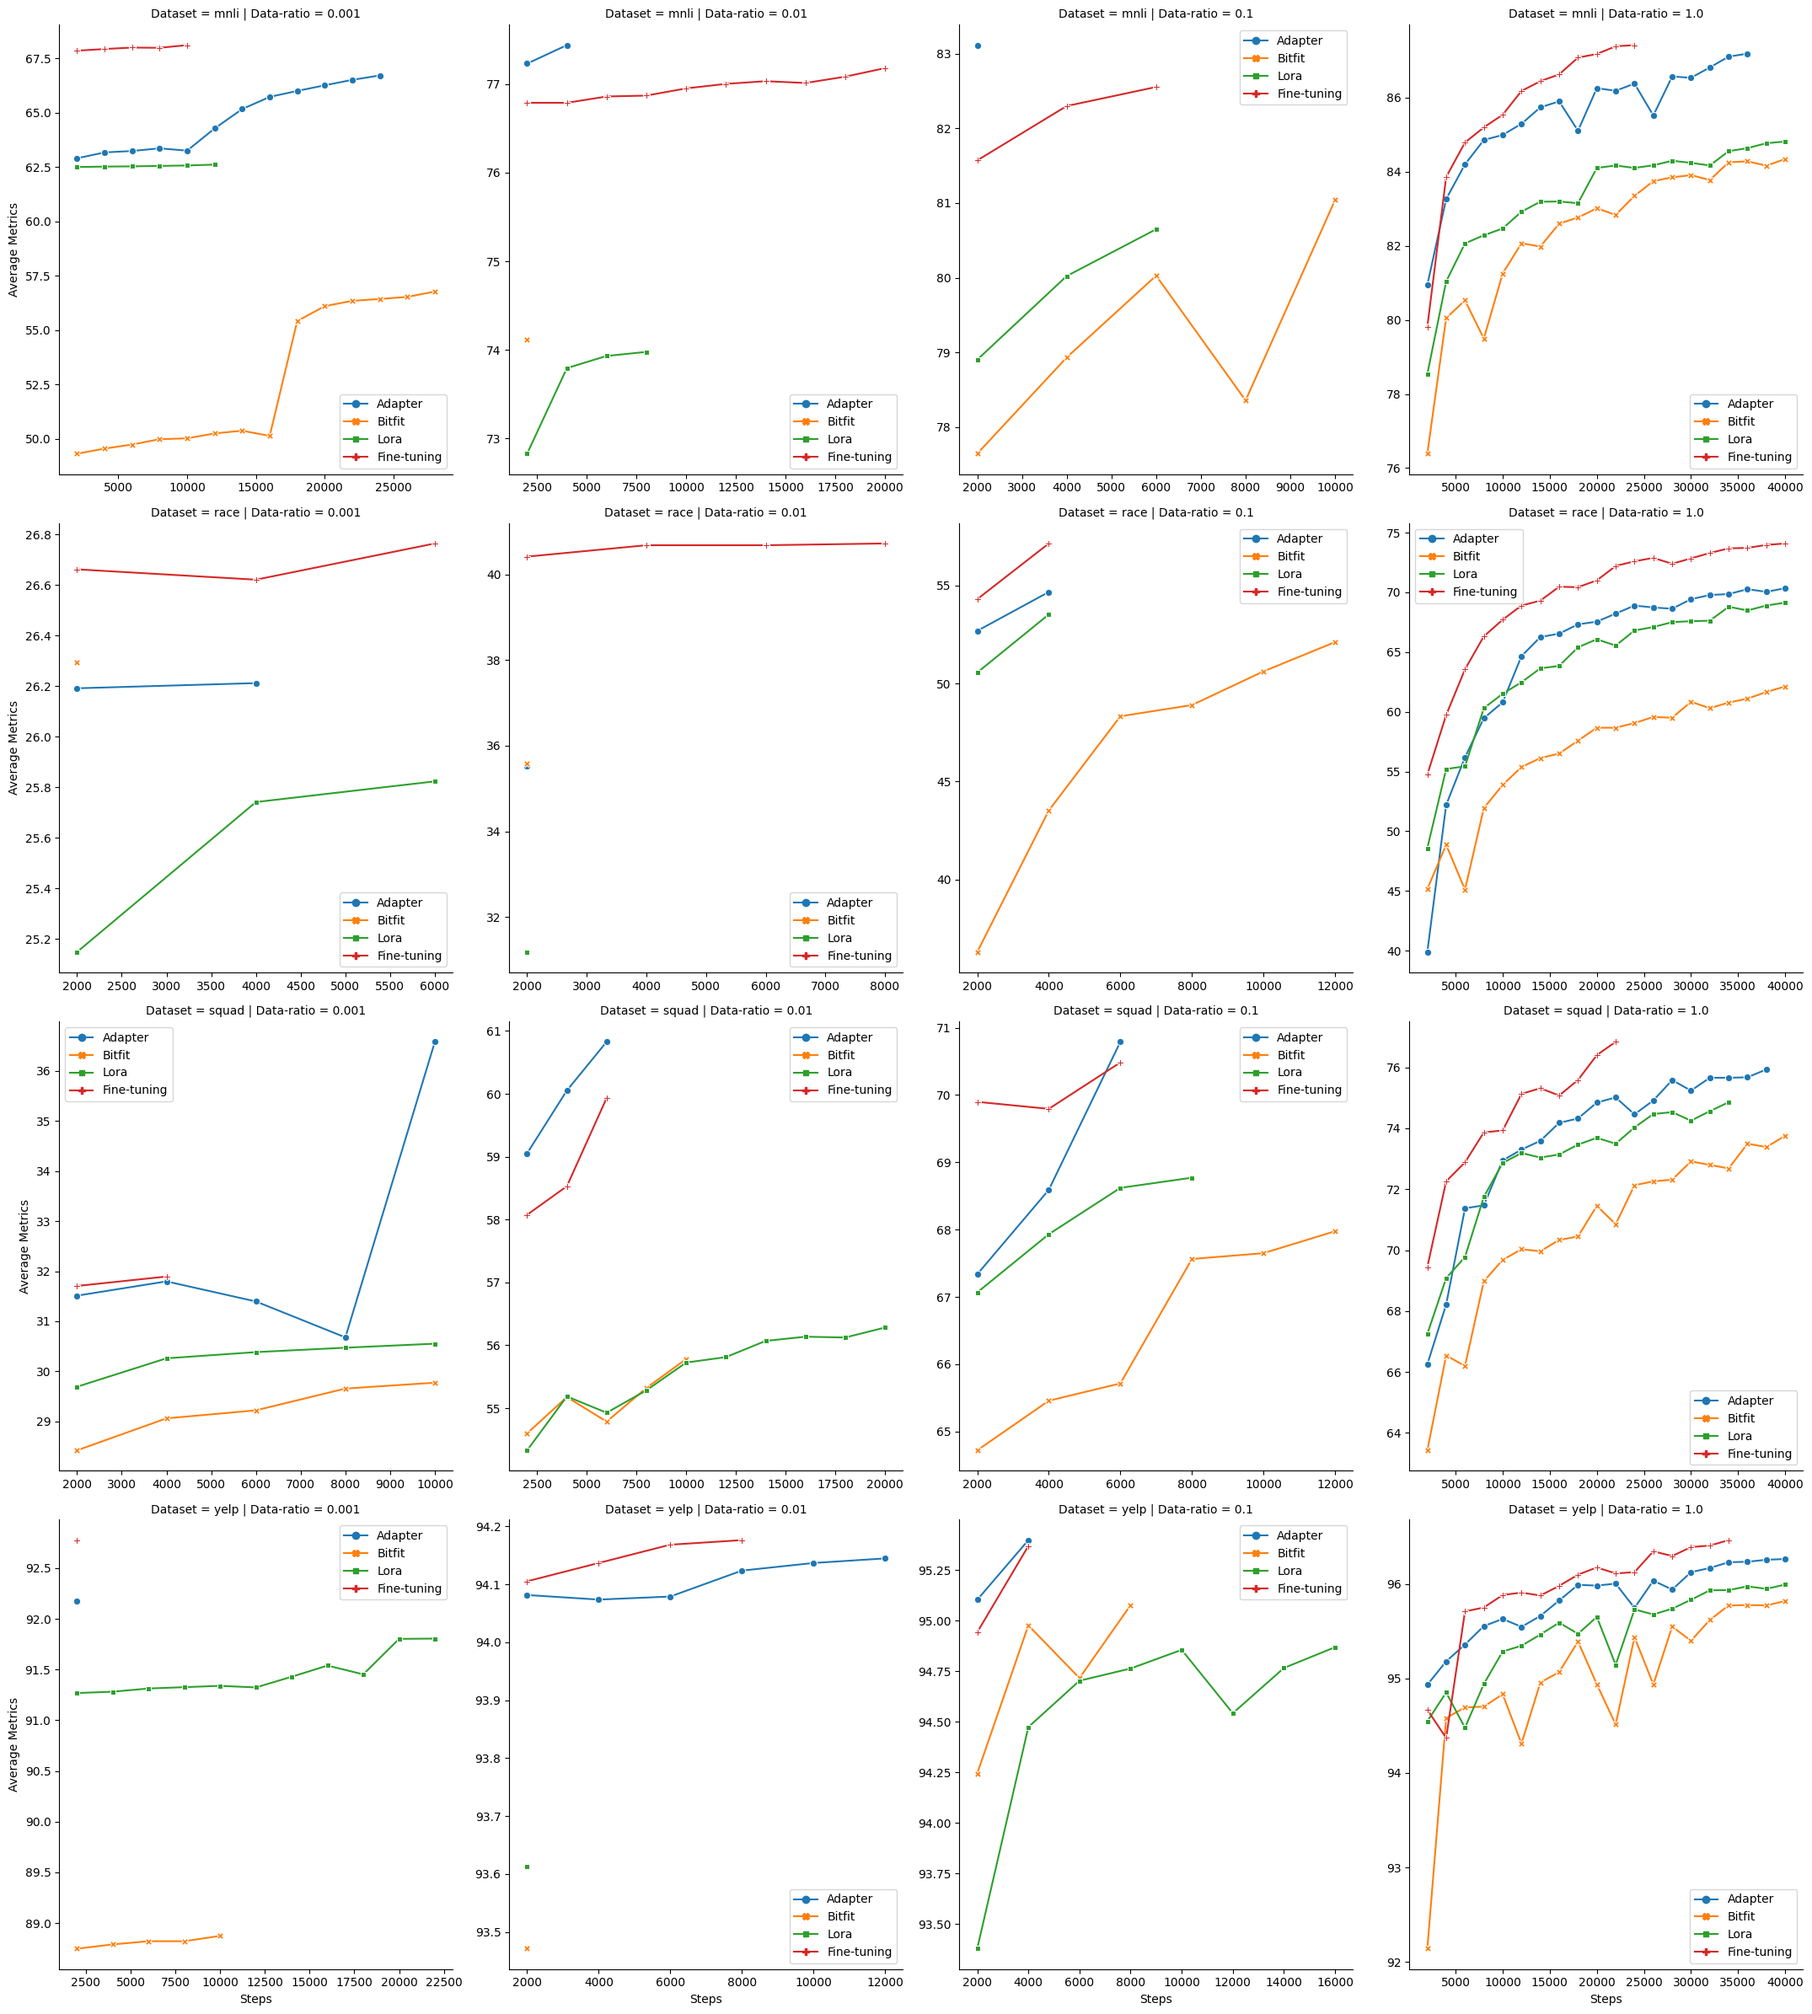
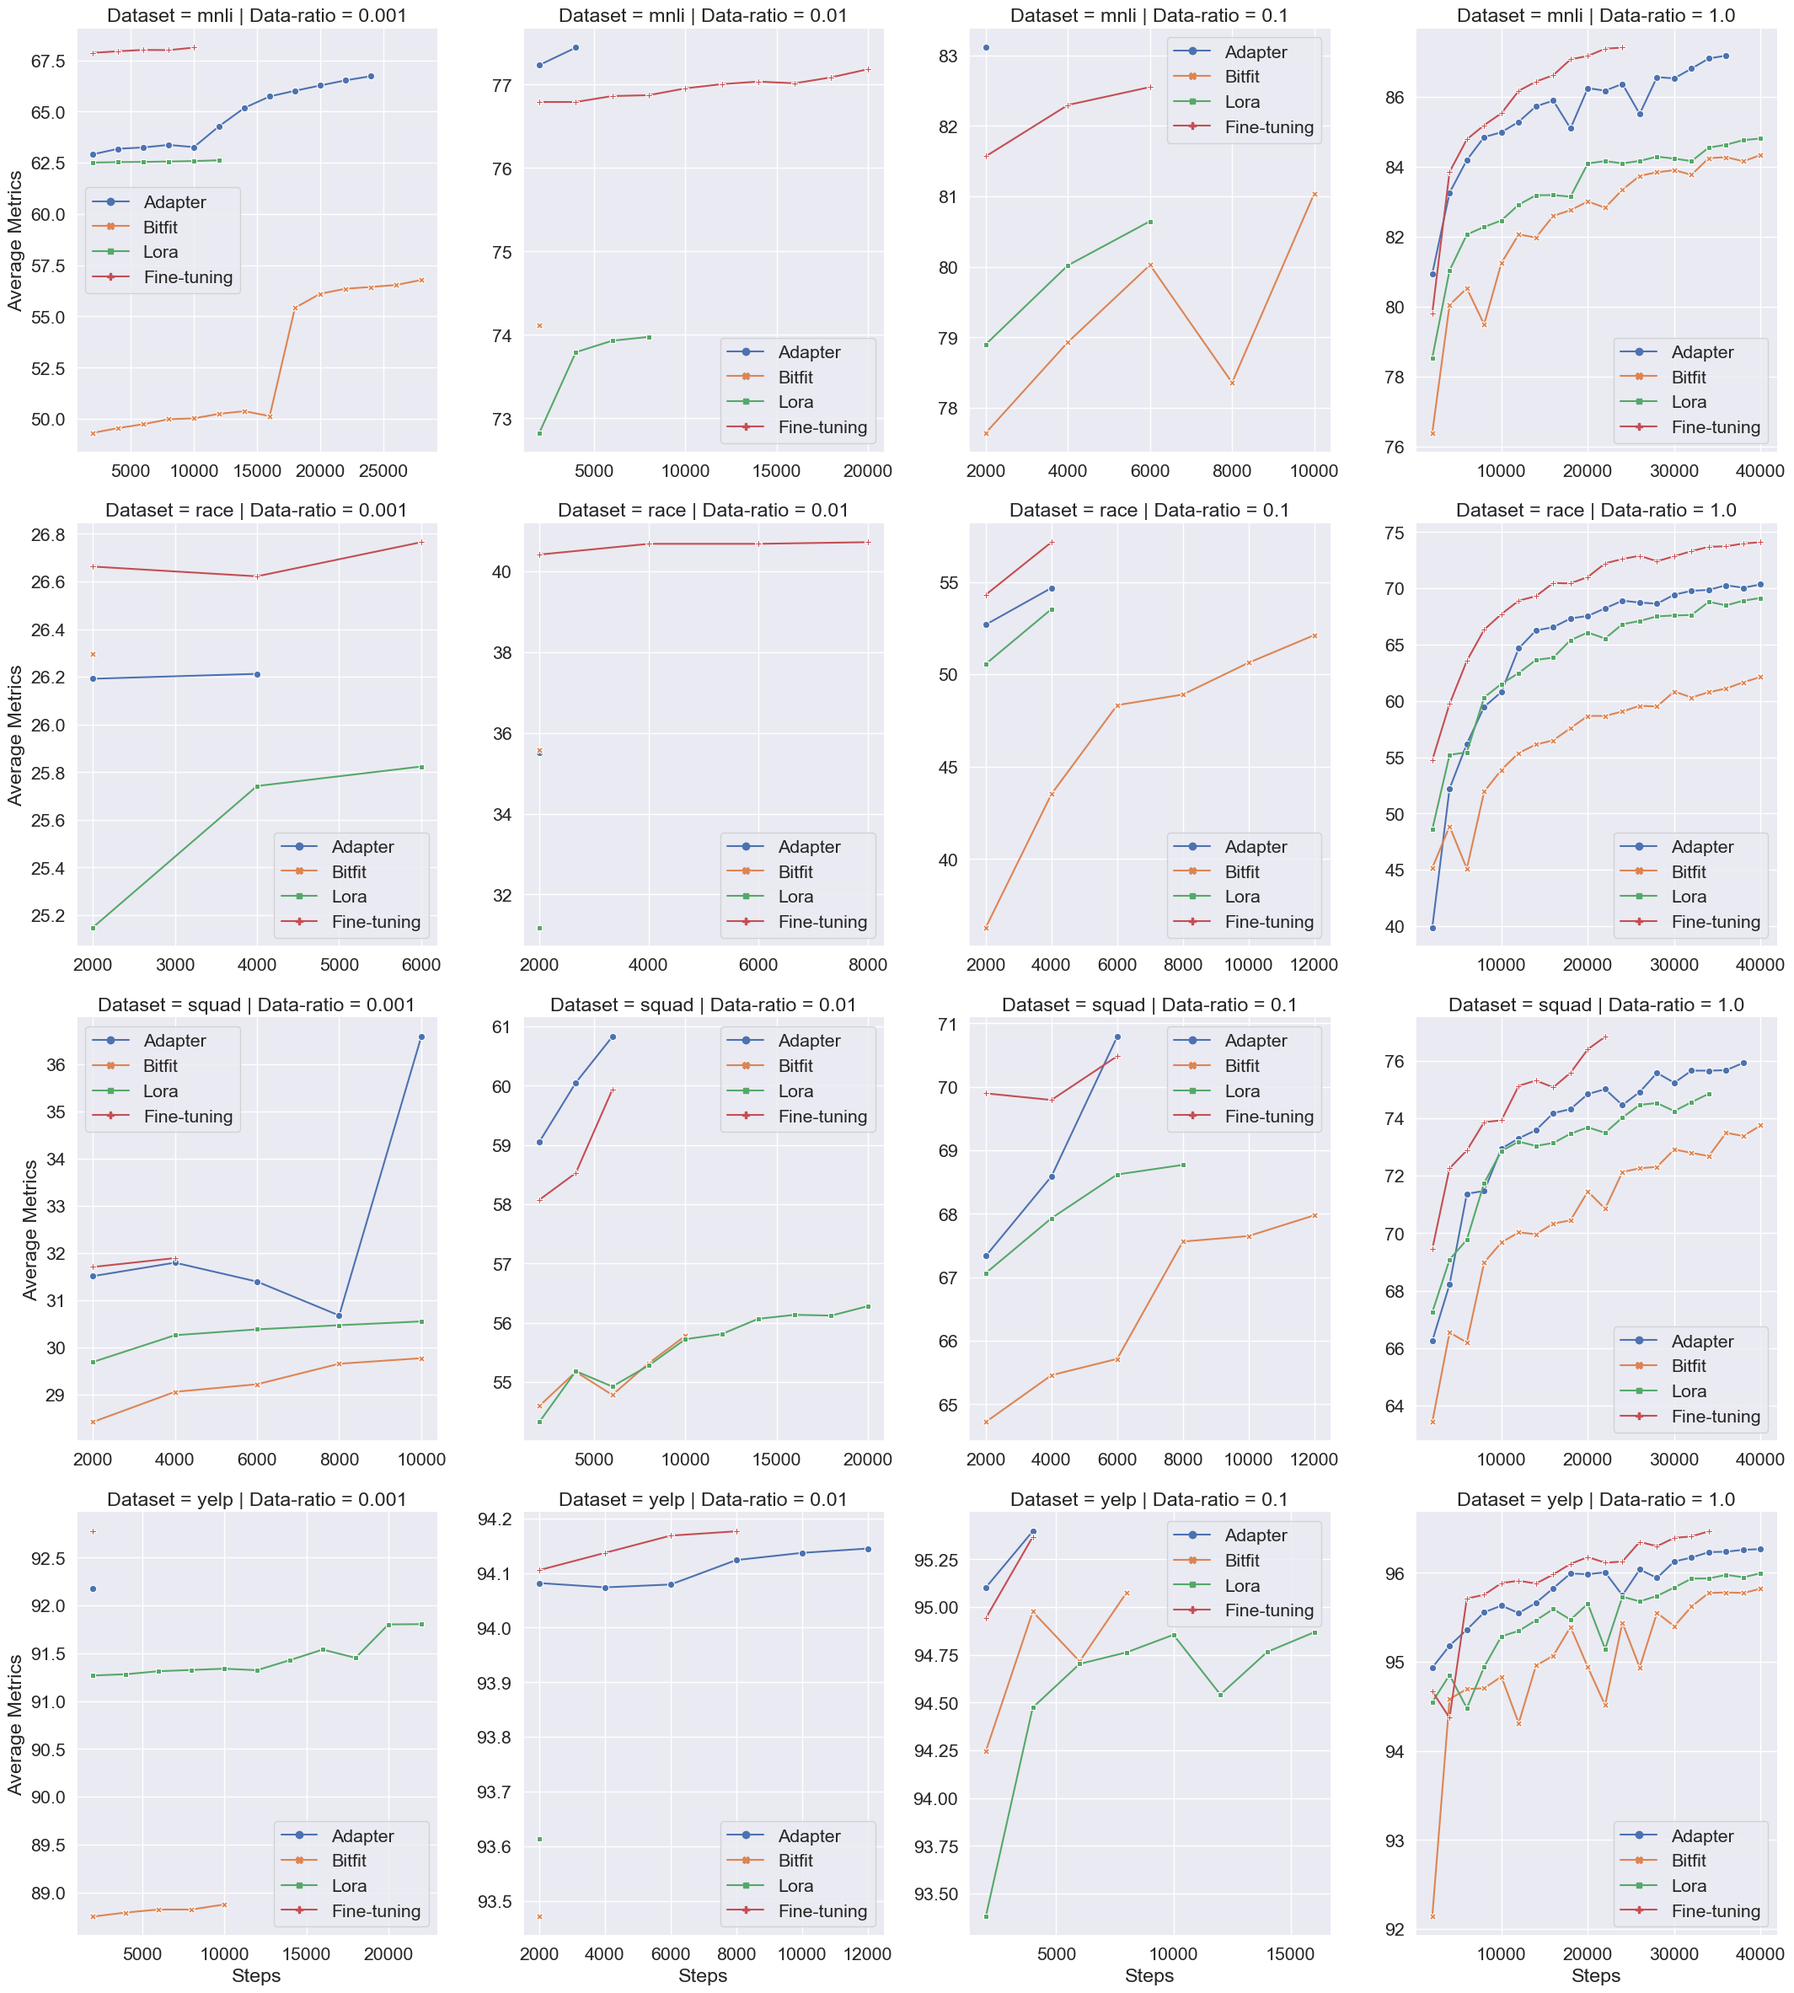
Updated font size and axis label

diff --git a/main.py b/main.py
@@ -7,12 +7,12 @@ df_F1 = pd.read_csv('results/performance/Phase1-F1.csv')
 df_AVG = pd.read_csv('results/performance/Phase1-Avg.csv')
 df_Convergence = pd.read_csv('results/convergence/csv/convergence.csv')
 
-drawline(data=df_EM, x_label="Percentage", save_config=[
-         True, "phase1-horizontal-em.png"])
-drawline(data=df_F1, x_label="Percentage", save_config=[
-         True, "phase1-horizontal-f1.png"])
-drawline(data=df_AVG, x_label="Percentage", save_config=[
-         True, "phase1-horizontal-avg.png"])
+drawline(data=df_EM, x_label="Data Ratio", y_label="Average Metrics", save_config=[
+        True, "phase1-horizontal-em.png"])
+drawline(data=df_F1, x_label="Data Ratio", y_label="Average Metrics", save_config=[
+        True, "phase1-horizontal-f1.png"])
+drawline(data=df_AVG, x_label="Data Ratio", y_label="Average Metrics", save_config=[
+        True, "phase1-horizontal-avg.png"])
 
 drawline(data=df_Convergence, hue="Tuning Method", do_melt=False, x_label="Steps", y_label="Average Metrics",
-         save_config=[True, "phase1-convergence.png"], facet_grid_config={"col": "Data-ratio", "row": "Dataset"})
+        save_config=[True, "phase1-convergence.png"], facet_grid_config={"col": "Data-ratio", "row": "Dataset"})

diff --git a/utils/drawline.py b/utils/drawline.py
@@ -4,7 +4,6 @@ import seaborn as sns
 import matplotlib.pyplot as plt
 # endregion
 
-
 def drawline(data, do_melt=True, hue=None, id_vars=['Tuning Method', "Dataset"], x_label="X_label", y_label='Objective', markers=True, dashes=False, save_config=[False, None], facet_grid_config={"col": "Dataset", "row": None}):
     """
         Takes in a set of arguments
@@ -33,7 +32,7 @@ def drawline(data, do_melt=True, hue=None, id_vars=['Tuning Method', "Dataset"],
     df = data
     if do_melt:
         df = pd.melt(data, id_vars=id_vars, var_name=x_label)
-
+    sns.set(font_scale=1.4)  
     g = sns.FacetGrid(df, col=facet_grid_config['col'], row=facet_grid_config["row"],
                       sharey=False, sharex=False, height=6, aspect=0.9)
     g = g.map_dataframe(sns.lineplot, x=x_label, y="value" if do_melt else y_label,
@@ -43,7 +42,6 @@ def drawline(data, do_melt=True, hue=None, id_vars=['Tuning Method', "Dataset"],
     # add legends to graphs
     for ax in g.axes.ravel():
         ax.legend()
-
     # linePlot = sns.lineplot(x=x_label, y='value', data=melted_df, hue=id_vars[0], markers=markers, dashes=dashes, style=id_vars[0] if markers else None)
     # linePlot.set_xlabel(x_label)
     # linePlot.set_ylabel(y_label)
